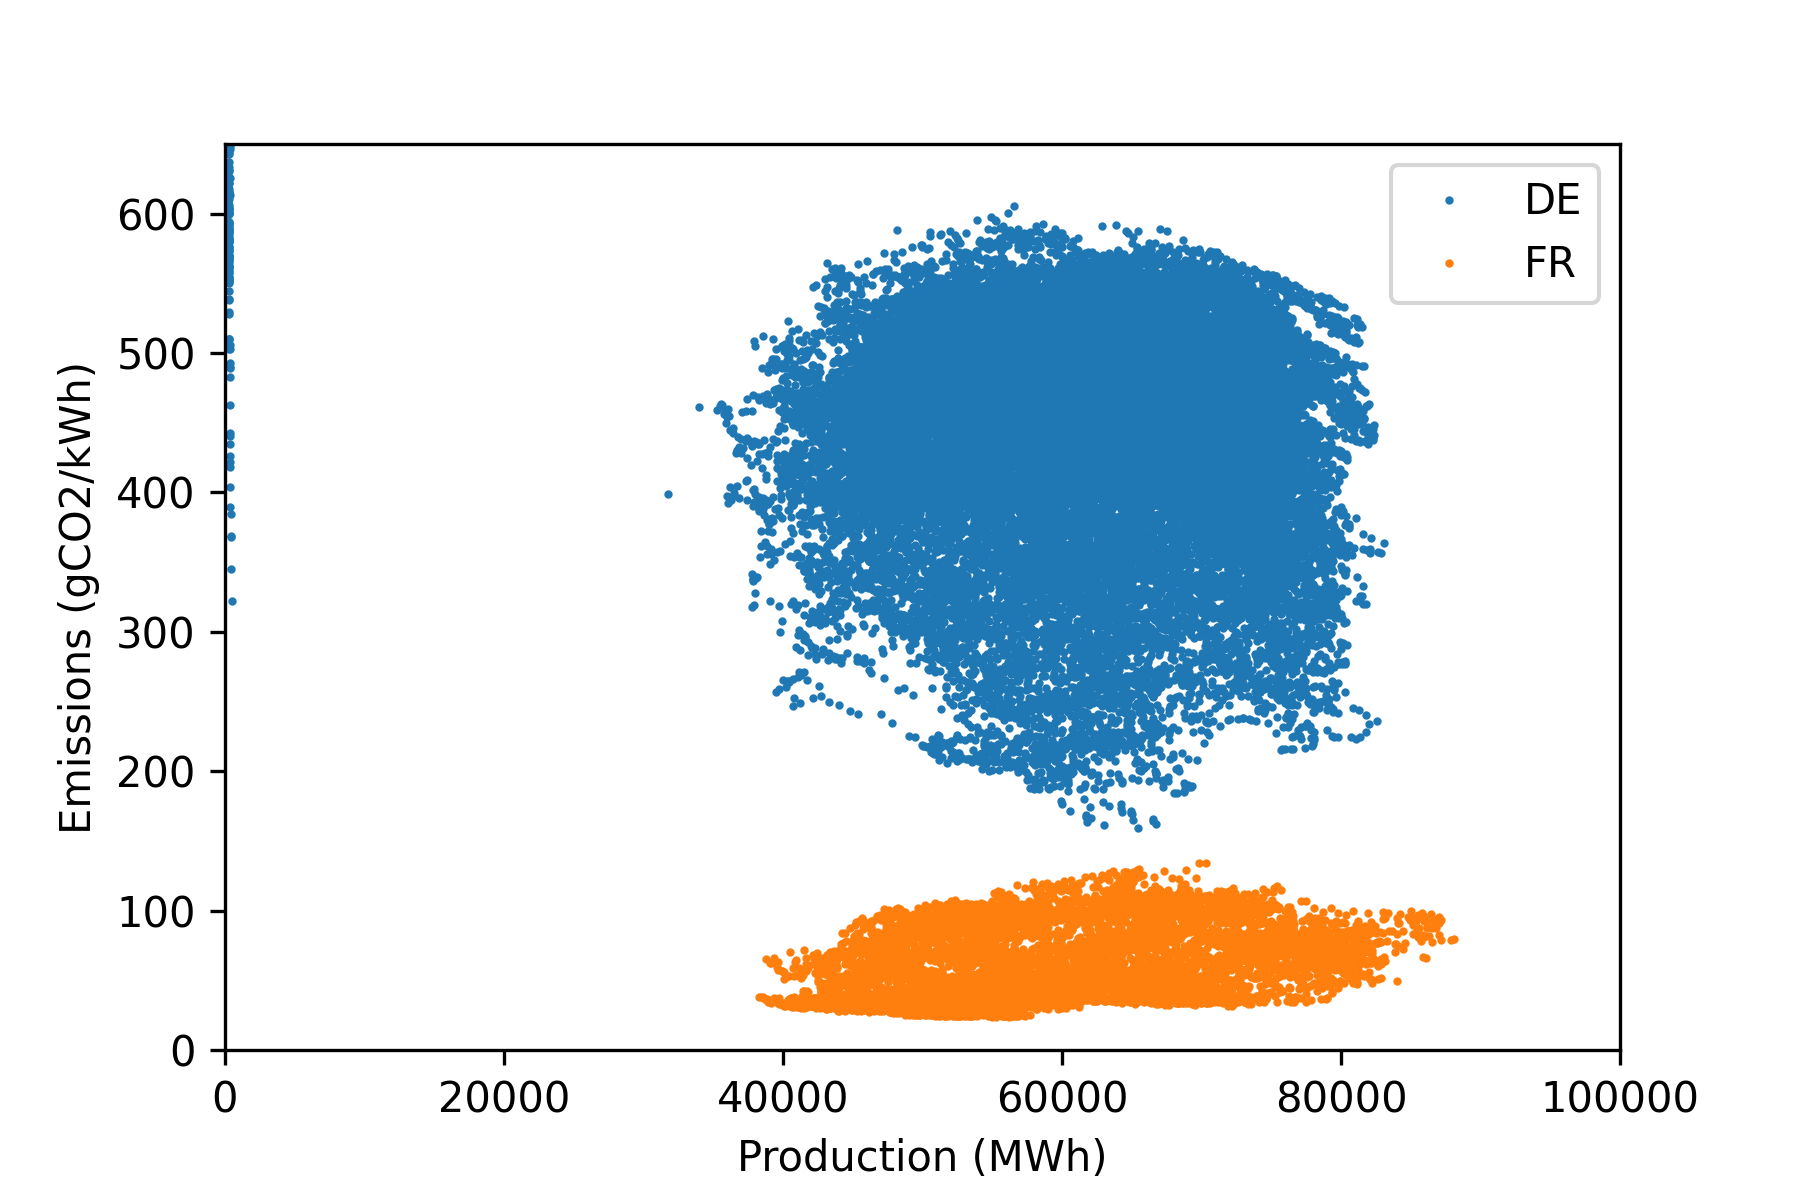
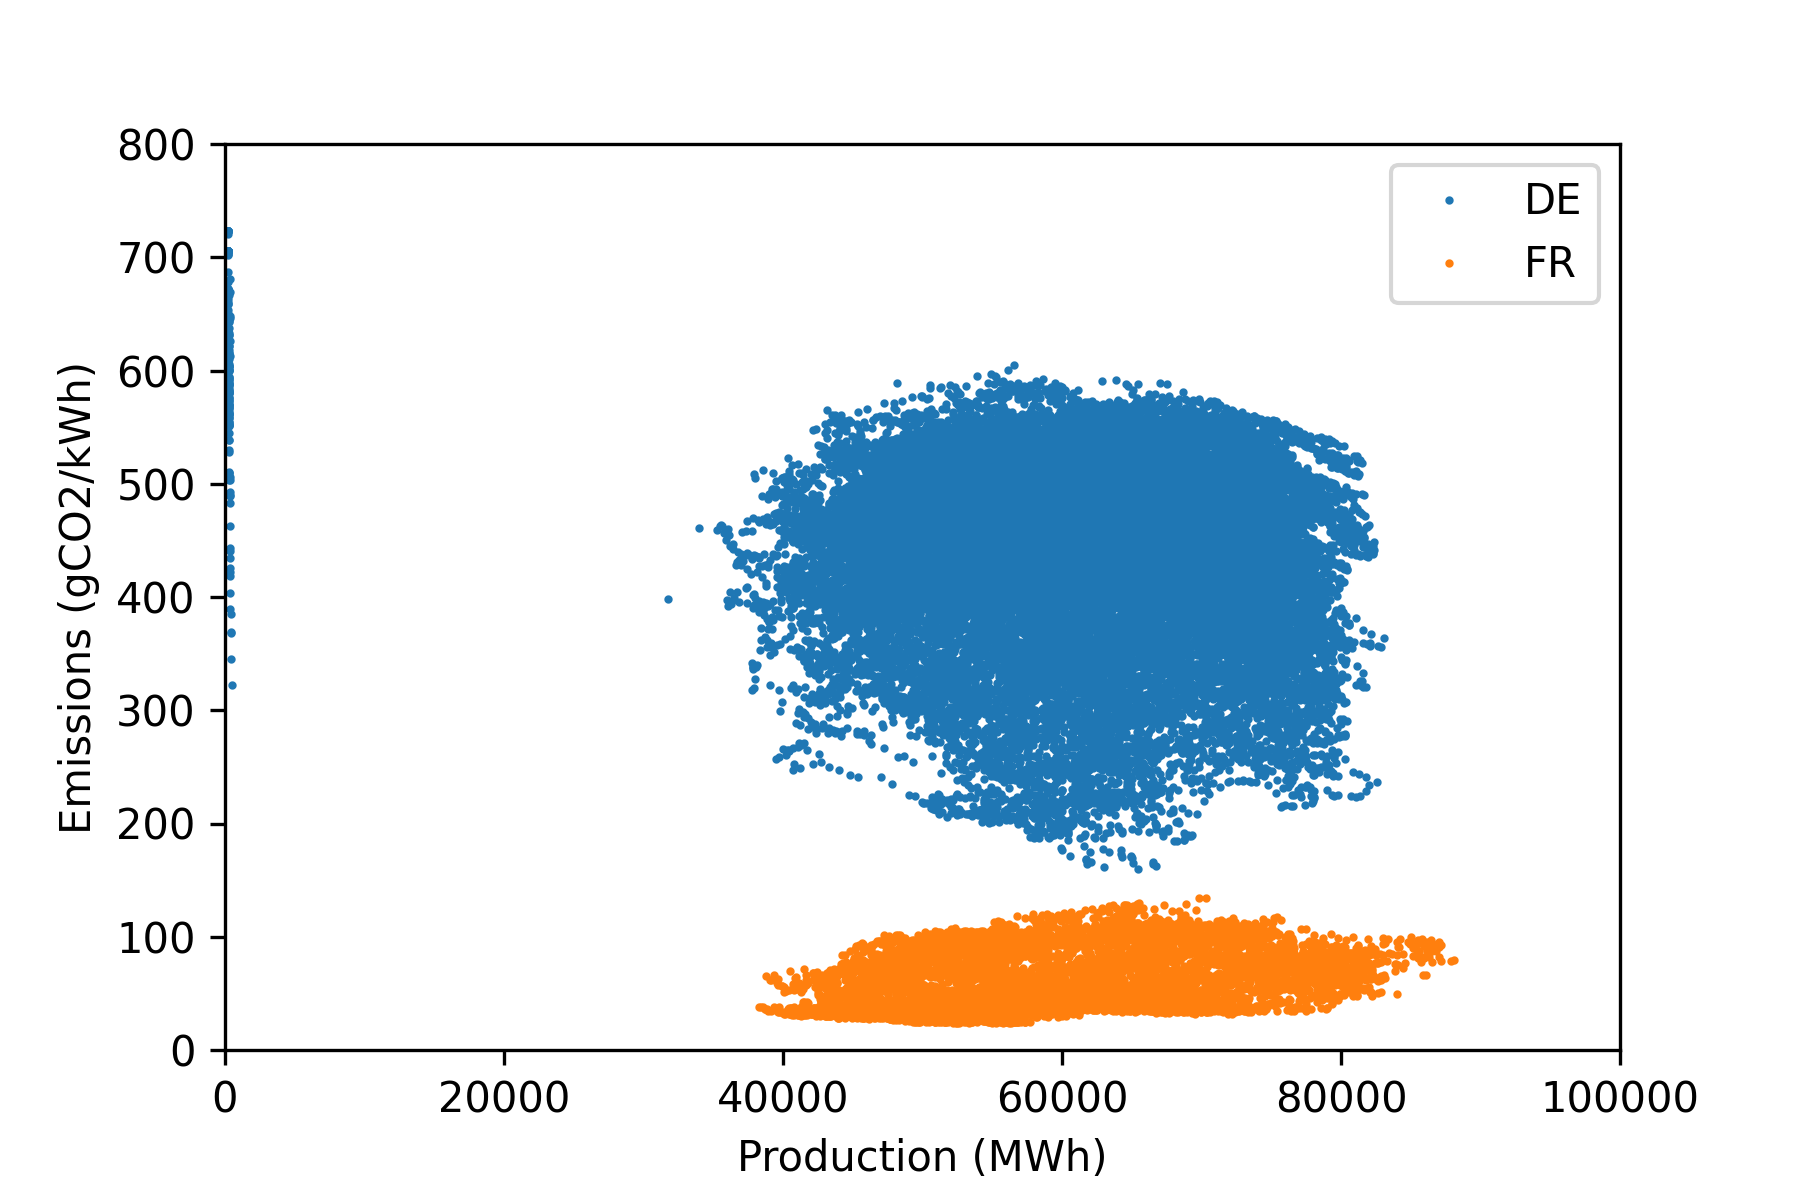
clean up code and add gif

diff --git a/data_analyis_request_ENTSO_E.py b/data_analyis_request_ENTSO_E.py
@@ -1,19 +1,58 @@
 #!/usr/bin/env python3
 # -*- coding: utf-8 -*-
 
-from entsoe import EntsoePandasClient
+import os
 import pandas as pd
 import numpy as np
 import matplotlib.pyplot as plt
-import os
+from entsoe import EntsoePandasClient
 
-# functions
 def multiply_by_sourceEm(arr,sourceEm,unitConv):
+    """
+    converts power to co2 emission
+
+    Parameters
+    ----------
+    arr : array
+        electricity power per time step for 1 country and 1 source (MW)
+    sourceEm : float
+        co2 intensity for 1 source in Kgco2eq/MWh
+    unitConv : float
+        conversion rate from MW to MWh (x time step) and from kgco2 to tco2 (/1000)
+        warning: time step not the same for all countries, 
+        we use timeStep parameter to define number of time steps per hour (manual entry)
+
+    Returns
+    -------
+    array
+        co2 emission per time step
+
+    """
     return np.multiply(arr,sourceEm*unitConv)
 
 def query_entsoe(start, end, country_list):
+    """
+    queries ENTSOE database if data not already available
+
+    Parameters
+    ----------
+    start : timestamp
+        start of the period queried (day)
+    end : timestamp
+        end of the period queried (day)
+    country_list : list
+        list of countries to retrieve
+
+    Returns
+    -------
+    df : TYPE
+        DESCRIPTION.
+    timespan : TYPE
+        DESCRIPTION.
+
+    """
     df = []
-    for index, country in enumerate(country_list):
+    for country in country_list:
         # check if file already exists
         files = os.listdir('./data')
         timespan = f"{start.strftime('%Y%m%d')}-{end.strftime('%Y%m%d')}"
@@ -26,7 +65,8 @@ def query_entsoe(start, end, country_list):
             dfc = client.query_generation(country, start=start, end=end)
             if dfc.columns.nlevels == 2:
                 # Suppression des valeurs de consommation (de toute manière vides)
-                # Suppression du second niveau pour les noms de colonnes (la mention "Actual Aggregated" qui ne sert à rien)
+                # Suppression du second niveau pour les noms de colonnes 
+                # (la mention "Actual Aggregated" qui ne sert à rien)
                 dfc = dfc.filter(regex='Actual Aggregated', axis=1).droplevel(1,axis=1)
             # write csv file to /data
             dfc.rename(columns= {df.columns[0]:'date'}, inplace=True)
@@ -38,8 +78,8 @@ def query_entsoe(start, end, country_list):
 # CO2 emission of each technology in a dictionary
 # unite: gco2eq/kWh = Kg co2eq/MWh
 # source: https://www.ipcc.ch/site/assets/uploads/2018/02/ipcc_wg3_ar5_annex-iii.pdf
-
-# by default we refer to emission numbers in the table A.III.2 (median of life cycle analyses), otherwise we indicate the source with the numbers
+# by default we refer to emission numbers in the table A.III.2 (median of life cycle analyses), 
+# otherwise we indicate the source with the numbers
 # used the biomass "dedicated", must check what is the dominant tech in each country...
 # used generic "coal" emission for both brown and hard coal,
 # all hydros use same number (24)
@@ -67,55 +107,51 @@ co2PerSource = {
     'Wind Onshore': 11.
     }
 
-# client parameters
+# user parameters
 client = EntsoePandasClient(api_key='${{ secrets.TOKEN_API }}')
+year_start = 2015
+year_end = 2021
+country_code = ['DE','FR']
+timeStep = [1./4.,1.] # quarter hour data for germany, hourly for france
+unitConversion = [t/1000. for t in timeStep]
 
-for year in range(2015,2021):
+for year in range(year_start, year_end):
+    start = pd.Timestamp(year=year, month=1, day=1, tz='Europe/Brussels')
+    end = pd.Timestamp(year=year, month=12, day=31, tz='Europe/Brussels')
+    # if we want monthly, add:
     #for month in range(1,13):
-        # Paramétrage de la période de l'historique demandé
-        # if yearly
-        start = pd.Timestamp(year=year, month=1, day=1, tz='Europe/Brussels')
-        end = pd.Timestamp(year=year, month=12, day=31, tz='Europe/Brussels')
-        # if monthly
         #start = pd.Timestamp(year=year, month=month, day=1, tz='Europe/Brussels')
         #end = pd.Timestamp(year=year, month=month, day=start.daysinmonth, tz='Europe/Brussels')
-        country_code = ['DE','FR']
+    
+    # call query
+    df, timespan = query_entsoe(start, end, country_code)
+    emissionDf = [dfc.copy() for dfc in df]    
 
-        # call query
-        df, timespan = query_entsoe(start, end, country_code)
-
-        emissionDf = [dfc.copy() for dfc in df]
-        # note from MichelB: original table reports power (in MW), we multiply by time step to get energy (in MWh), and then convert to emission in tCo2 = KgCo2/1000
-        # quarter hour data
-        # warning: time step not the same for all countries, use a list of time units in hours
-        timeStep = [1./4.,1.]
-        # we multiply by time unit but divide by 1000 to get tons of CO2
-        unitConversion = [t/1000. for t in timeStep]
-
-        for kcount,countr in enumerate(country_code):
-          for source in df[kcount].keys():
+    # convert from MW to co2 emission per country and source
+    for kcount,countr in enumerate(country_code):
+        for source in df[kcount].keys():
             emissionDf[kcount][source] = df[kcount][[source]].apply(multiply_by_sourceEm, args = (co2PerSource[source],unitConversion[kcount]))
 
-        # write csv file to /data with emissions per source in tons for each time step
-        timespan = f"{start.strftime('%Y%m%d')}-{end.strftime('%Y%m%d')}"
-        [emissionDfc.to_csv(f"./data/{timespan}_{country_code[index]}_emission.csv") for index, emissionDfc in enumerate(emissionDf)]
+    # write csv file to /data with emissions per source in tons for each time step
+    timespan = f"{start.strftime('%Y%m%d')}-{end.strftime('%Y%m%d')}"
+    [emissionDfc.to_csv(f"./data/{timespan}_{country_code[index]}_emission.csv") for index, emissionDfc in enumerate(emissionDf)]
 
-        # compute total production and emissions
-        totProd = [dfc.apply(np.nansum, axis=1) for dfc in df]
-        totEmit = [emissionDfc.apply(np.nansum, axis=1) for emissionDfc in emissionDf]
+    # compute total production and emissions
+    totProd = [dfc.apply(np.nansum, axis=1) for dfc in df]
+    totEmit = [emissionDfc.apply(np.nansum, axis=1) for emissionDfc in emissionDf]
 
-        # forces axes limit to overlay graphs
-        plt.axes(xlim=(0, 100000), ylim=(0, 650), autoscale_on=False)
+    # forces axes limit to overlay graphs
+    plt.axes(xlim=(0, 100000), ylim=(0, 800), autoscale_on=False)
 
-        # plot
-        [plt.plot(totProd[k], totEmit[k]/totProd[k]/timeStep[k]*1000, '.', markersize=2) for k in range(len(timeStep))]
-        plt.gca().set_ylabel("Emissions (gCO2/kWh)")
-        plt.gca().set_xlabel("Production (MWh)")
-        plt.legend(country_code)
+    # plot
+    [plt.plot(totProd[k], totEmit[k]/totProd[k]/timeStep[k]*1000, '.', markersize=2) for k in range(len(timeStep))]
+    plt.gca().set_ylabel("Emissions (gCO2/kWh)")
+    plt.gca().set_xlabel("Production (MWh)")
+    plt.legend(country_code)
 
-        # save plot to .png
-        filename = f"./plots/{timespan}_{''.join(country_code)}_emission_vs_production.png"
-        plt.savefig(filename, dpi=300, transparent = True)
+    # save plot to .png
+    filename = f"./plots/{timespan}_{''.join(country_code)}_emission_vs_production.png"
+    plt.savefig(filename, dpi=300, transparent = True)
 
-        # clear plot
-        plt.clf()
+    # clear plot
+    plt.clf()
